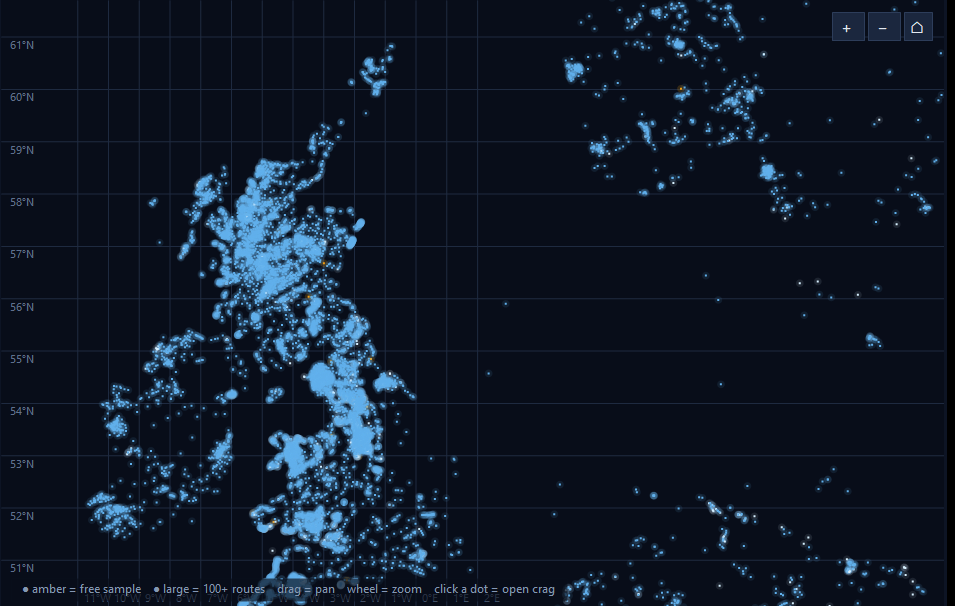
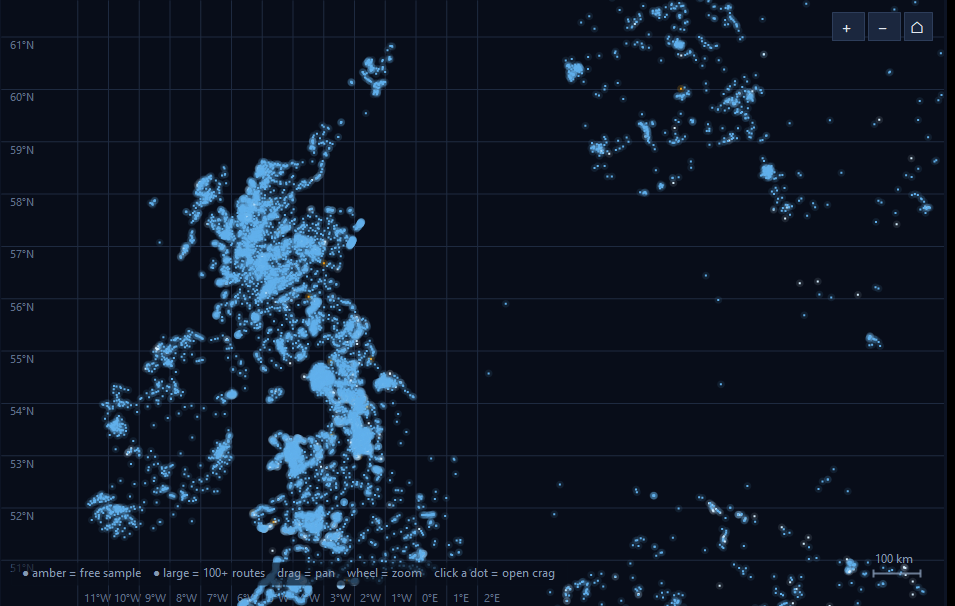
UI 17: debounced live search (fires 450ms after last keystroke), refreshed README heroes

Changed region(s): [[0.0, 0.9208, 0.6073, 1.0], [0.911, 0.8911, 0.9717, 0.9505]]

diff --git a/RockfaxDesk/MainForm.cs b/RockfaxDesk/MainForm.cs
@@ -58,6 +58,7 @@ public sealed class MainForm : Form
         Text = "",
     };
     private readonly System.Windows.Forms.Timer _spinTimer = new() { Interval = 110 };
+    private readonly System.Windows.Forms.Timer _searchDebounce = new() { Interval = 450 };
     private int _busy;
     private int _spinFrame;
 
@@ -145,6 +146,13 @@ public sealed class MainForm : Form
         };
         _spinTimer.Start();
 
+        // Live search: fire 450ms after the last keystroke (Enter still works).
+        _searchDebounce.Tick += (_, _) =>
+        {
+            _searchDebounce.Stop();
+            if (_txtSearch.Text.Trim().Length >= 3) _ = SearchAsync(_txtSearch.Text);
+        };
+
         // ---- events ------------------------------------------------------------
         _btnLogin.Click += async (_, _) => await LoginAsync();
         _btnLogbook.Click += async (_, _) => { _tabs.Select(3); await _logbookView.LoadAsync(_api); };
@@ -154,9 +162,14 @@ public sealed class MainForm : Form
         _btnTop10.Click += async (_, _) => { _tabs.Select(4); await _top10View.LoadAsync(); };
         _lvLeft.DoubleClick += (_, _) => _ = LeftItemActivated();
         _lvLeft.KeyDown += async (_, e) => { if (e.KeyCode == Keys.Enter) { await LeftItemActivated(); } };
+        _txtSearch.TextChanged += (_, _) =>
+        {
+            _searchDebounce.Stop();
+            if (_txtSearch.Text.Trim().Length >= 3) _searchDebounce.Start();
+        };
         _txtSearch.KeyDown += async (_, e) =>
         {
-            if (e.KeyCode == Keys.Enter) { e.SuppressKeyPress = true; await SearchAsync(_txtSearch.Text); }
+            if (e.KeyCode == Keys.Enter) { e.SuppressKeyPress = true; _searchDebounce.Stop(); await SearchAsync(_txtSearch.Text); }
             if (e.KeyCode == Keys.Escape) { _txtSearch.Clear(); }
         };
         _txtCragFilter.KeyDown += async (_, e) =>
